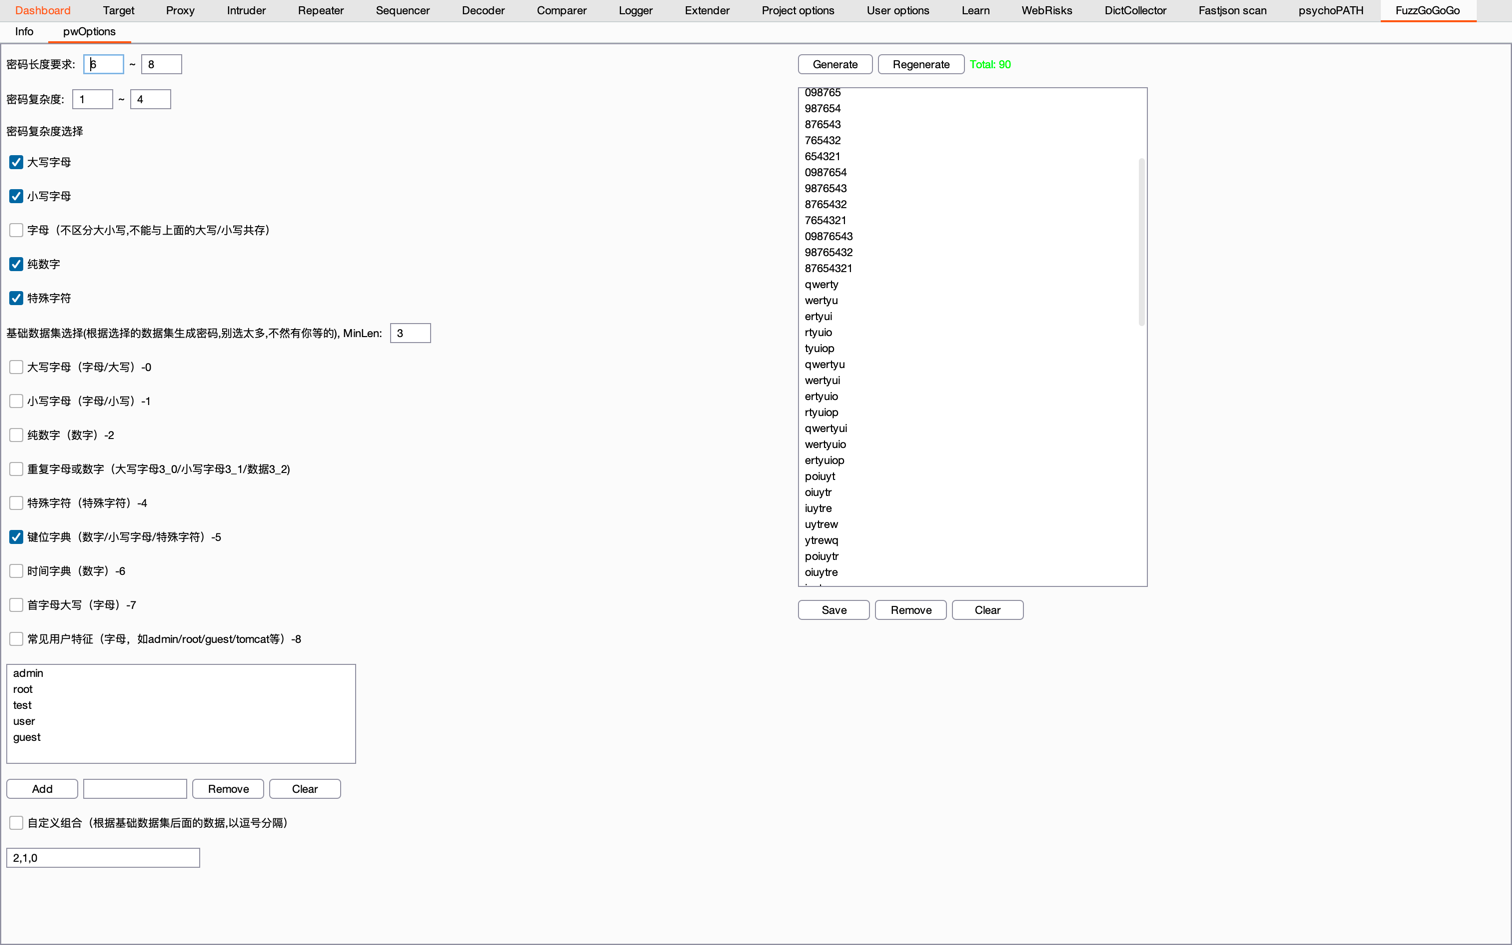
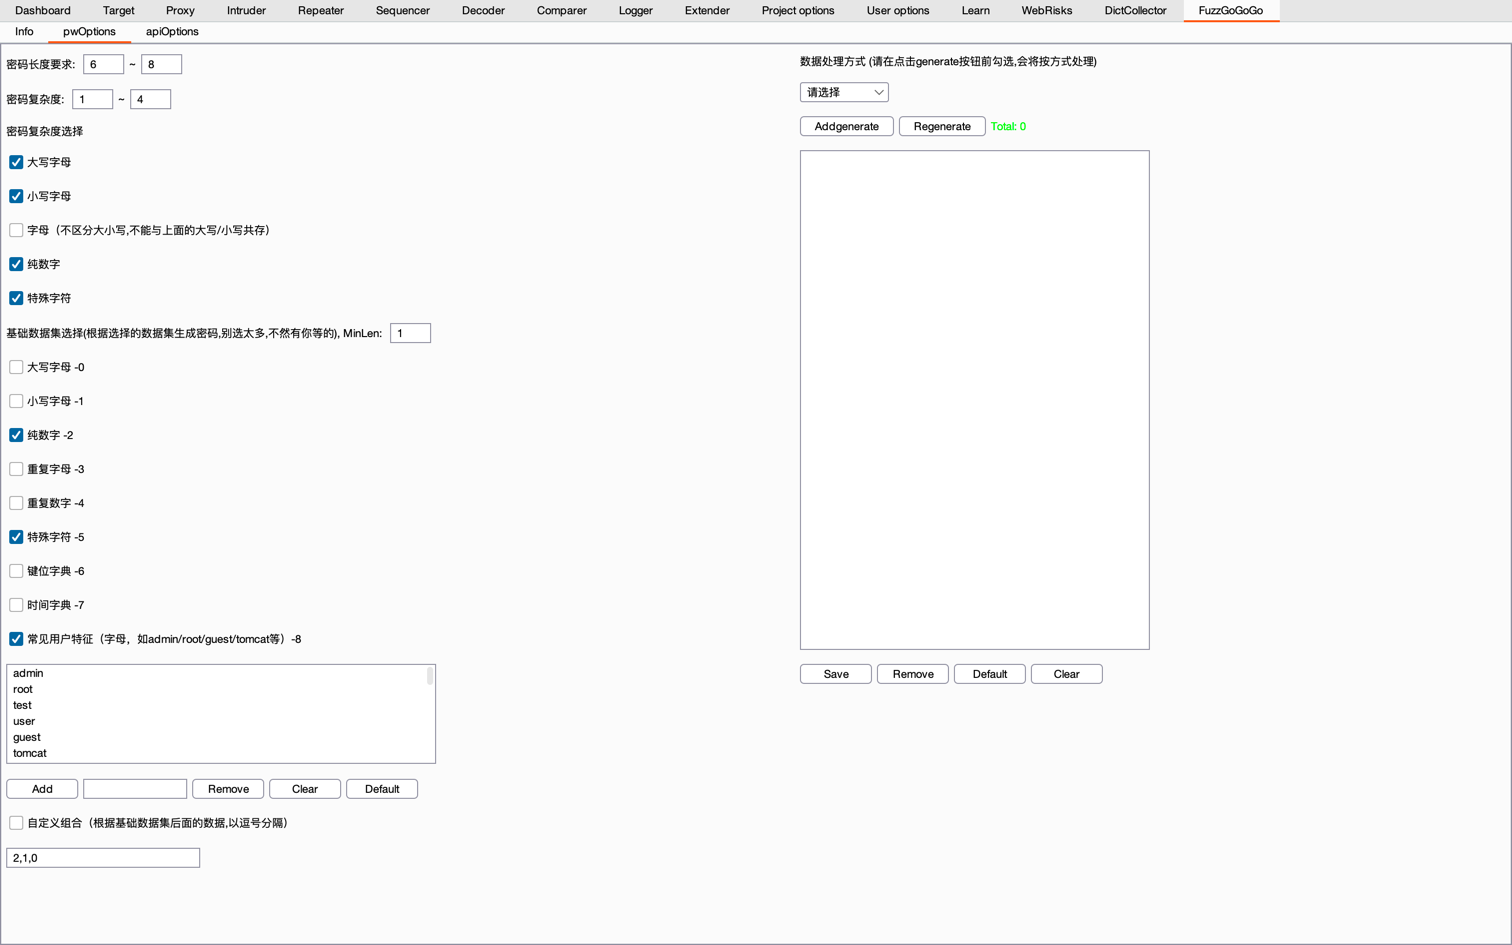
更新readme

diff --git a/README.MD b/README.MD
@@ -13,11 +13,13 @@
 - 4.1 MinLen：上面基础数据集数据的最小长度，比如大写字母，MinLen为2，那生成的就是ab/bcd/cdef等，最小长度是2
 - 4.2 常见用户特征：这里会内置一些常见的特征，用于生成密码，很常见的就是'admin@123'，可新增删除
 - 4.3 自定义组合：就是字面意思自定义，比如我想生成admin@123这样格式的密码，那就根据基础数据集的index进行组合（index在每类数据集的末尾）
-- 5.按钮Genrate：根据配置生成密码字典，但是生成的结果会追加到末尾
-- 6.按钮Regenrate：就翻译意思，重新生成，相比Genrate，会清空已有的数据
-- 7.展示生成的数据
-- 7.1按钮Save：保存数据到文件
-- 7.2按钮emove/Clear，就是删除选中及清空数据
+- 5.选择对生成数据的处理，比如首字母大写
+- 6.按钮Genrate：根据配置生成密码字典，但是生成的结果会追加到末尾
+- 7.按钮Regenrate：就翻译意思，重新生成，相比Genrate，会清空已有的数据
+- 8.展示生成的数据
+- 8.1 按钮Save：保存数据到文件
+- 8.2 按钮Remove/Clear，就是删除选中及清空数据
+- 8.3 按钮Default，是加载内置的密码字典
 
 ### 注意
 1.生成预期尽量精确，因为生成太多数据的话，内存会撑不住的，然后Boom哇～
@@ -44,13 +46,14 @@
 
 ### 说明书
 看UI吧
-![img_1.png](img_1.png)
+![img_3.png](img_1.png)
 配置解读
 - 后缀选择：就没啥好解释了，会根据选择的后缀筛选数据
 - 无后缀：就是没有后缀的清空，一般是后端api是这样的
 - 自定义后缀：那防止出现我没有列出来的啊，那就靠你自己yy加进去
 - 自定义api：很常会从js中扒拉出一些api，那一个个验证太慢了，直接贴进去，然后爆破任务去验证就好了
 - path参数标识：有一种参数叫path参数，js中的一般会有个path参数标识，比如/admin/:id/user info，查询某id用户的信息，那如果你请求的时候不替换有可能会400,所以替换随机值
+- 导入文件，插件会落地内置的字典数据到本地，方便新增，而这个按钮是为了方便整合数据的，去重合并
 
 ### 使用及效果
 常规Intruder的使用，选择拓展的生成器即可
